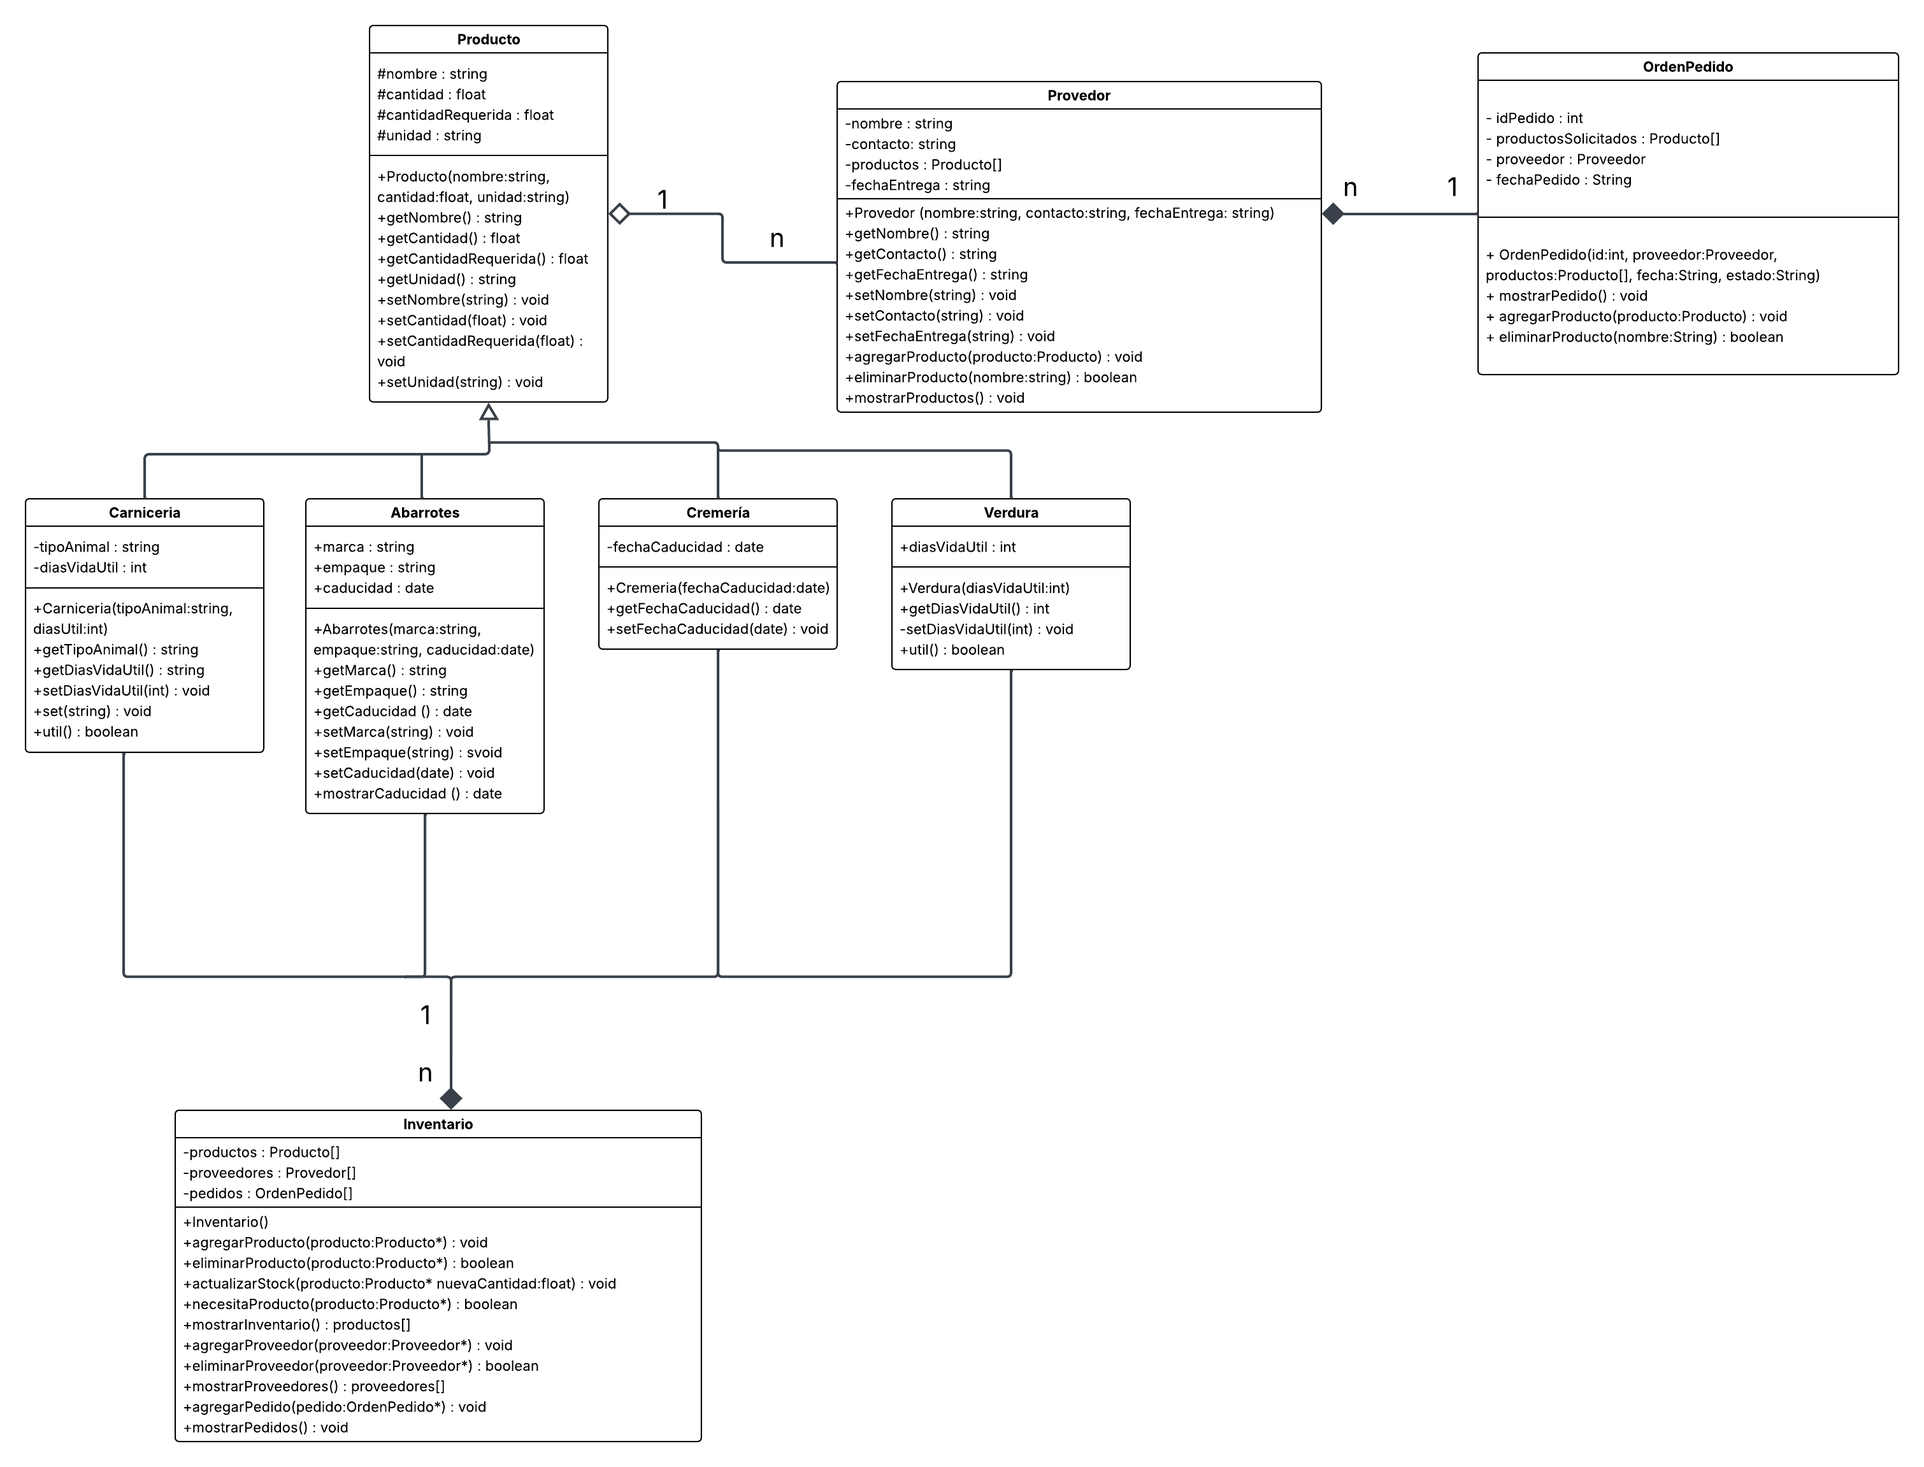
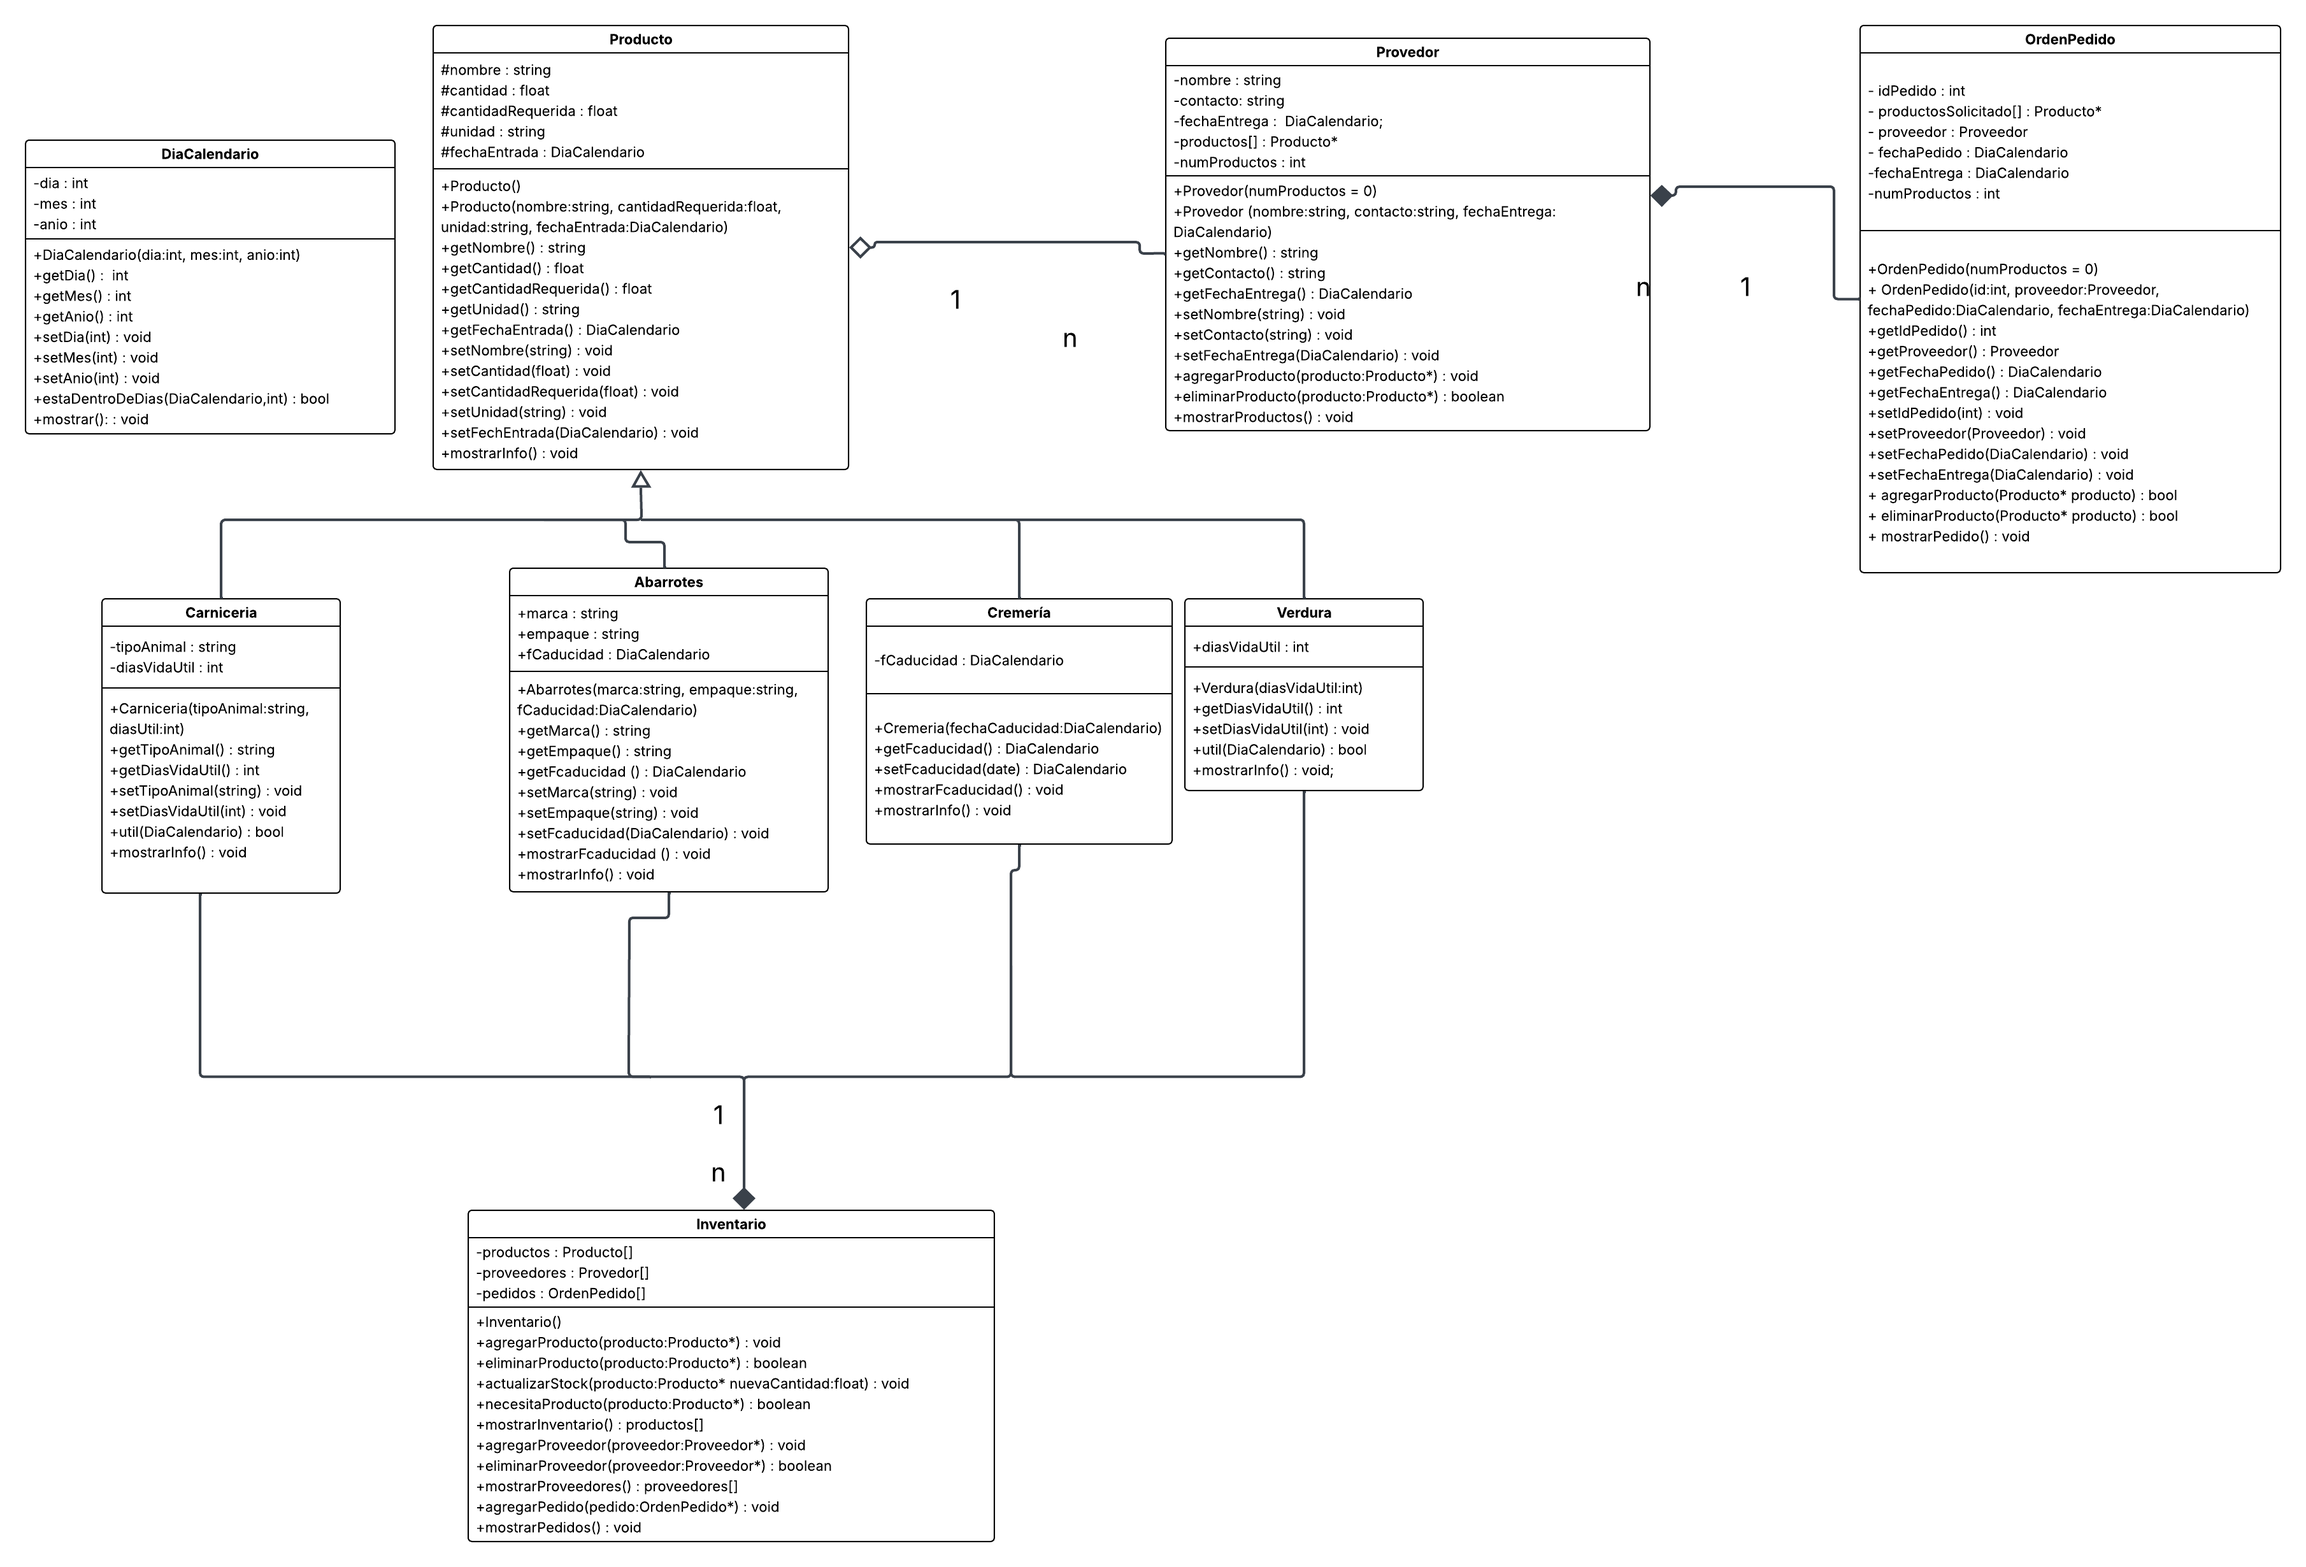
Implemente la ultima clase, de inventario. Se modifico el UML y por ultimo se creo un main con las funcionalidades del sistema

diff --git a/main.cpp b/main.cpp
@@ -1,45 +1,160 @@
+#include <iostream>
+#include <vector>
+#include <algorithm>
 #include "producto.h"
 #include "carniceria.h"
 #include "abarrotes.h"
 #include "cremeria.h"
 #include "verdura.h"
 #include "proveedor.h"
+#include "ordenPedido.h"
+#include "inventario.h"
 #include "diaCalendario.h"
-#include <iostream>
 using namespace std;
 
+string toLower(const string& str) {
+    string lower = str;
+    transform(lower.begin(), lower.end(), lower.begin(), ::tolower);
+    return lower;
+}
+
 int main() {
-    // Crear fechas
-    DiaCalendario hoy(29, 5, 2025);
-    DiaCalendario entrada(25, 5, 2025);
-    DiaCalendario caducidad(5, 6, 2025);
+    Inventario inventario;
+    vector<Proveedor> proveedores;
+    vector<OrdenPedido> pedidos;
 
-    // Crear proveedor con fecha de entrega
-    DiaCalendario fechaEntrega(2, 6, 2025);
-    Proveedor proveedor("La Central", "ventas@central.com", fechaEntrega);
+    int opcion;
+    cout << "==============================\n";
+    cout << " SISTEMA INVENTARIO ENTRE ABUELAS\n";
+    cout << "==============================\n";
 
-    // Crear productos
-    Carniceria carne("Carne de res", 10.0, 15.0, "kg", "Res", 7, entrada);
-    Abarrotes arroz("Arroz integral", 20.0, 30.0, "kg", "Doña María", "Bolsa", caducidad);
-    Cremeria queso("Queso Oaxaca", 5.0, 10.0, "kg", caducidad);
-    Verdura lechuga("Lechuga romana", 8.0, 12.0, "piezas", 5, entrada);
+    do {
+        cout << "\nSeleccione una opción:\n";
+        cout << "1. Registrar nuevo producto\n";
+        cout << "2. Eliminar producto\n";
+        cout << "3. Actualizar stock\n";
+        cout << "4. Mostrar inventario\n";
+        cout << "5. Agregar proveedor\n";
+        cout << "6. Eliminar proveedor\n";
+        cout << "7. Mostrar proveedores\n";
+        cout << "8. Armar orden de pedido\n";
+        cout << "9. Mostrar órdenes de pedido\n";
+        cout << "0. Salir\n";
+        cout << "Opción: ";
+        cin >> opcion;
+        cin.ignore();
 
-    // Agregar productos al proveedor (agregación)
-    proveedor.agregarProducto(&carne);
-    proveedor.agregarProducto(&arroz);
-    proveedor.agregarProducto(&queso);
-    proveedor.agregarProducto(&lechuga);
+        if (opcion == 1) {
+            string nombre, unidad, categoria;
+            float cantidad, cantidadReq;
+            cout << "Categoría (Carniceria, Abarrotes, Verdura, Cremeria): "; getline(cin, categoria);
+            cout << "Nombre: "; getline(cin, nombre);
+            cout << "Cantidad existente: "; cin >> cantidad;
+            cout << "Cantidad requerida: "; cin >> cantidadReq;
+            cout << "Unidad: "; cin.ignore(); getline(cin, unidad);
 
-    // Mostrar productos
-    cout << "\nProductos actuales:\n";
-    proveedor.mostrarProductos();
+            if (toLower(categoria) == "carniceria") {
+                string tipoAnimal; int dias; DiaCalendario fecha;
+                cout << "Tipo de animal: "; getline(cin, tipoAnimal);
+                cout << "Días de vida útil: "; cin >> dias;
+                fecha = DiaCalendario();
+                inventario.agregarProducto(new Carniceria(nombre, cantidad, cantidadReq, unidad, tipoAnimal, dias, fecha));
+            } else if (toLower(categoria) == "verdura") {
+                int dias; DiaCalendario fecha;
+                cout << "Días de vida útil: "; cin >> dias;
+                fecha = DiaCalendario();
+                inventario.agregarProducto(new Verdura(nombre, cantidad, cantidadReq, unidad, dias, fecha));
+            } else if (toLower(categoria) == "abarrotes") {
+                string marca, empaque; DiaCalendario fCad;
+                cout << "Marca: "; cin.ignore(); getline(cin, marca);
+                cout << "Empaque: "; getline(cin, empaque);
+                fCad = DiaCalendario();
+                inventario.agregarProducto(new Abarrotes(nombre, cantidad, cantidadReq, unidad, marca, empaque, fCad));
+            } else if (toLower(categoria) == "cremeria") {
+                DiaCalendario fCad;
+                fCad = DiaCalendario();
+                inventario.agregarProducto(new Cremeria(nombre, cantidad, cantidadReq, unidad, fCad));
+            }
+        }
 
-    // Eliminar uno (por puntero)
-    proveedor.eliminarProducto(&arroz);
+        else if (opcion == 2) {
+            string nombre;
+            cout << "Nombre del producto a eliminar: "; getline(cin, nombre);
+            inventario.eliminarProducto(nombre);
+        }
 
-    // Mostrar productos después de eliminar
-    cout << "\nDespués de eliminar 'Arroz integral':\n";
-    proveedor.mostrarProductos();
+        else if (opcion == 3) {
+            string nombre; float cant; char tipo;
+            cout << "Nombre del producto: "; getline(cin, nombre);
+            cout << "Cantidad: "; cin >> cant;
+            cout << "¿Es incremento? (s/n): "; cin >> tipo; cin.ignore();
+            inventario.actualizarStock(nombre, cant, tipo == 's');
+        }
 
+        else if (opcion == 4) {
+            inventario.mostrarInventario();
+        }
+
+        else if (opcion == 5) {
+            string nombre, contacto;
+            cout << "Nombre proveedor: "; getline(cin, nombre);
+            cout << "Contacto: "; getline(cin, contacto);
+            DiaCalendario fecha;
+            proveedores.push_back(Proveedor(nombre, contacto, fecha));
+            cout << "Proveedor registrado.\n";
+        }
+
+        else if (opcion == 6) {
+            string nombre;
+            cout << "Nombre proveedor a eliminar: "; getline(cin, nombre);
+            auto it = remove_if(proveedores.begin(), proveedores.end(), [&](Proveedor& p) {
+                return toLower(p.getNombre()) == toLower(nombre);
+            });
+            if (it != proveedores.end()) {
+                proveedores.erase(it, proveedores.end());
+                cout << "Proveedor eliminado.\n";
+            } else cout << "Proveedor no encontrado.\n";
+        }
+
+        else if (opcion == 7) {
+            for (Proveedor& p : proveedores) {
+                cout << "Proveedor: " << p.getNombre() << ", Contacto: " << p.getContacto() << endl;
+                p.mostrarProductos();
+            }
+        }
+
+        else if (opcion == 8) {
+            int id; string nombreProv; DiaCalendario fPedido, fEntrega;
+            cout << "ID del pedido: "; cin >> id; cin.ignore();
+            cout << "Nombre del proveedor: "; getline(cin, nombreProv);
+            auto it = find_if(proveedores.begin(), proveedores.end(), [&](Proveedor& p) {
+                return toLower(p.getNombre()) == toLower(nombreProv);
+            });
+            if (it != proveedores.end()) {
+                OrdenPedido pedido(id, *it, fPedido, fEntrega);
+                char seguir;
+                do {
+                    string nombreProd;
+                    cout << "Producto a agregar al pedido: "; getline(cin, nombreProd);
+                    Producto* p = inventario.buscarProducto(nombreProd);
+                    if (p) pedido.agregarProducto(p);
+                    else cout << "Producto no encontrado en inventario.\n";
+                    cout << "¿Agregar otro producto? (s/n): "; cin >> seguir; cin.ignore();
+                } while (seguir == 's');
+                pedidos.push_back(pedido);
+                cout << "Pedido registrado.\n";
+            } else {
+                cout << "Proveedor no encontrado.\n";
+            }
+        }
+
+        else if (opcion == 9) {
+            for (const OrdenPedido& p : pedidos)
+                p.mostrarPedido();
+        }
+
+    } while (opcion != 0);
+
+    cout << "\nGracias por usar el Sistema Entre Abuelas.\n";
     return 0;
 }

diff --git a/inventario.cpp b/inventario.cpp
@@ -1,0 +1,48 @@
+#include "inventario.h"
+#include <iostream>
+using namespace std;
+
+bool Inventario::agregarProducto(Producto* p) {
+    productos.push_back(p);
+    cout << "Producto agregado al inventario.\n";
+    return true;
+}
+
+bool Inventario::eliminarProducto(const std::string& nombre) {
+    for (auto it = productos.begin(); it != productos.end(); ++it) {
+        if ((*it)->getNombre() == nombre) {
+            productos.erase(it);
+            cout << "Producto eliminado del inventario.\n";
+            return true;
+        }
+    }
+    cout << "Producto no encontrado.\n";
+    return false;
+}
+
+Producto* Inventario::buscarProducto(const std::string& nombre) {
+    for (Producto* p : productos) {
+        if (p->getNombre() == nombre) {
+            return p;
+        }
+    }
+    return nullptr;
+}
+
+void Inventario::mostrarInventario() const {
+    cout << "----- Inventario -----\n";
+    for (Producto* p : productos) {
+        p->mostrarInfo();
+    }
+    cout << "-----------------------\n";
+}
+
+void Inventario::actualizarStock(const std::string& nombre, float nuevaCantidad, bool esIncremento) {
+    Producto* p = buscarProducto(nombre);
+    if (p) {
+        p->setCantidad(nuevaCantidad, esIncremento);
+        cout << "Stock actualizado.\n";
+    } else {
+        cout << "Producto no encontrado.\n";
+    }
+}

diff --git a/inventario.h b/inventario.h
@@ -1,0 +1,21 @@
+#ifndef INVENTARIO_H
+#define INVENTARIO_H
+
+#include "producto.h"
+#include <vector>
+#include <string>
+
+class Inventario {
+private:
+    std::vector<Producto*> productos;
+
+public:
+    // Métodos
+    bool agregarProducto(Producto* p);
+    bool eliminarProducto(const std::string& nombre);
+    Producto* buscarProducto(const std::string& nombre);
+    void mostrarInventario() const;
+    void actualizarStock(const std::string& nombre, float nuevaCantidad, bool esIncremento = false);
+};
+
+#endif
